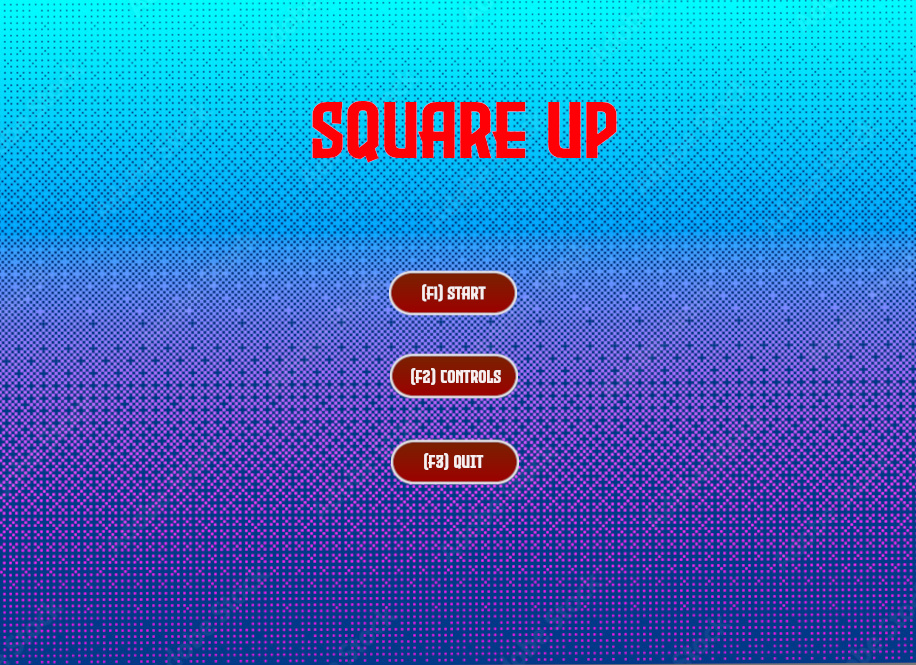
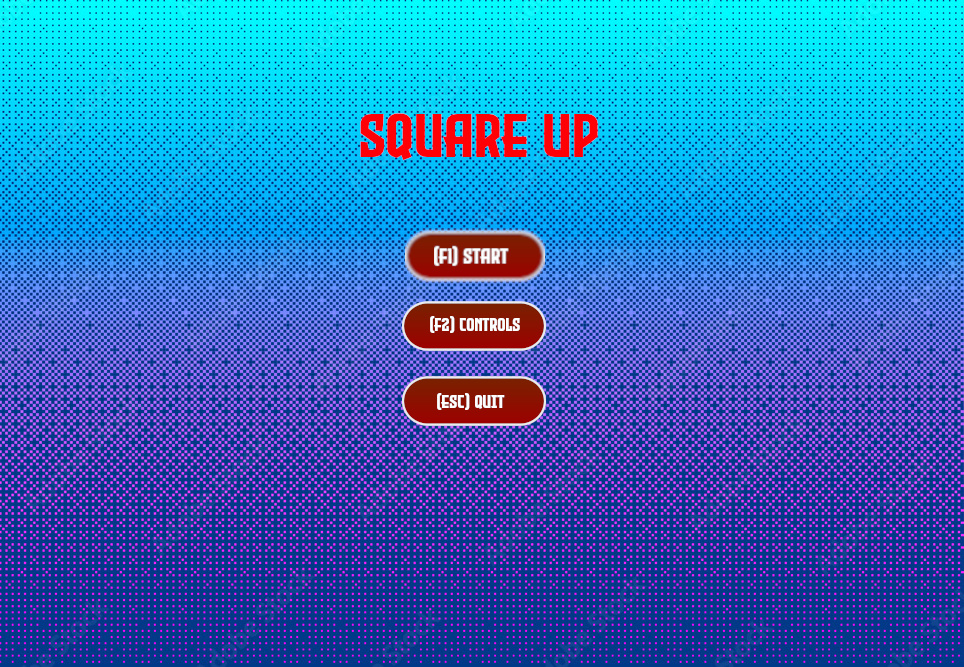
fixed start menu add g.cntrls too try and get control menu to appear after game starts but not working

diff --git a/walk.cpp b/walk.cpp
@@ -180,6 +180,7 @@ class Global {
 		int walk2Frame;
 		int gflag, bflag;
 		int start;
+		int ctrls;
 		int jeflag, joflag;
 		double delay;
 		int feature_mode;
@@ -200,6 +201,7 @@ class Global {
 			bflag = jeflag = joflag = 0;
 			gflag = 1;
 			start = 0;
+			ctrls = 0;
 			restart = 0;
 			memset(keyStates, 0, 65536);
 			walkFrame=0;
@@ -305,6 +307,13 @@ class X11_wrapper {
 		}
 		void swapBuffers() {
 			glXSwapBuffers(dpy, win);
+		}
+
+		void destroyWin(){
+
+			XDestroyWindow(dpy, win);
+		    XCloseDisplay(dpy);
+		    exit(0);
 		}
 
 } x11;
@@ -591,7 +600,9 @@ int checkKeys(XEvent *e)
 
 			break;
 		case XK_F1:
-			g.start = 1;
+			if(g.start != 1){
+				g.start = 1;
+			}
 			break;
 		case XK_F2:
 			if(g.start != 2){
@@ -601,6 +612,13 @@ int checkKeys(XEvent *e)
 			}
 			break;
 		case XK_d:
+			break;
+		case XK_q:
+			if(g.ctrls != 1){
+				g.ctrls = 1;
+			} else {
+				g.ctrls = 0;
+			}
 			break;
 		case XK_r:
 			g.restart =! g.restart;
@@ -1190,10 +1208,15 @@ bool brend = true;
 
 void render(void)
 {
+
+
+
+
 	if(g.start == 1){
 		//Clear the screen
 		glClearColor(0.1, 0.1, 0.1, 1.0);
 		glClear(GL_COLOR_BUFFER_BIT);
+
 
 		float cx = g.xres/3.0;
 		float cy = g.yres/2.0;
@@ -1469,6 +1492,7 @@ void render(void)
 				sprite(player1.w + player1.pos[0], player1.h + player1.pos[1], g.walkFrame, g.walkTexture);
 				sprite(player2.w + player2.pos[0], player2.h + player2.pos[1], g.walk2Frame, g.walk2Texture);
 			}
+
 
 		} else if (g.start == 0) {
 
